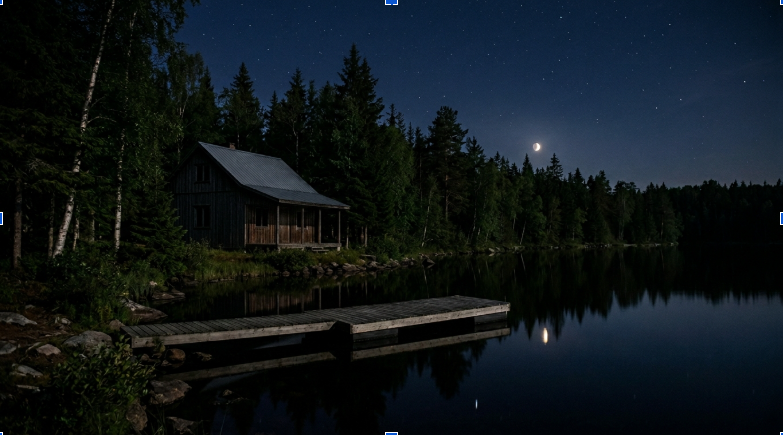
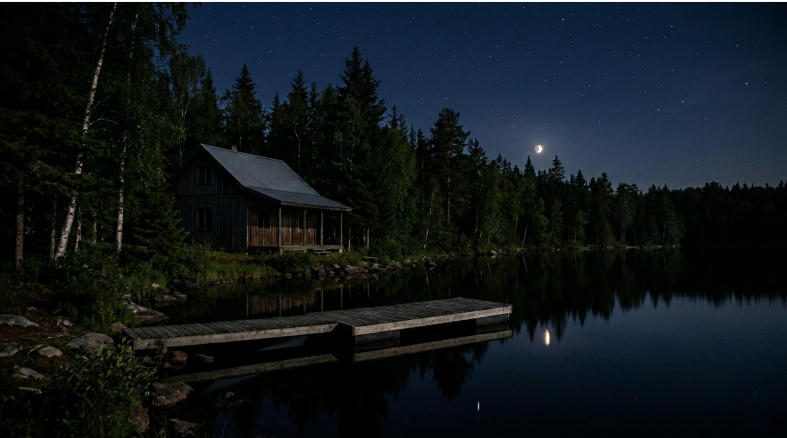
Replace storybook image 1 and remove compass graphic under image 2

diff --git a/chapter5-main/Storybook/storybook.html b/chapter5-main/Storybook/storybook.html
@@ -39,7 +39,7 @@
     <!-- Scene 2: Discovery -->
     <section class="scene" id="scene-2">
       <div class="scene-content">
-        <img src="Images/1.png?v=2" alt="Twilight Cove lake house at night" class="storybook-image stagger" onerror="this.style.display='none'"/>
+        <img src="Images/1.png?v=3" alt="Twilight Cove lake house at night" class="storybook-image stagger" onerror="this.style.display='none'"/>
         <p class="signal-text">At <strong>11:47 PM</strong>, the lights at Twilight Cove went out.</p>
         <p class="sub-text">No one inside the house called for help.</p>
         <p class="signal-text">By the time someone did, <strong><span class="red-text">Arjun Varma was already gone.</span></strong></p>
@@ -53,14 +53,6 @@
     <section class="scene" id="scene-3">
       <div class="scene-content">
         <img src="Images/2.png?v=2" alt="Investigation board" class="storybook-image stagger" onerror="this.style.display='none'"/>
-        <div class="formation-abstract stagger" aria-hidden="true">
-          <div class="point point-center" style="background: #ffffff; box-shadow: 0 0 8px #ffffff;"></div>
-          <div class="point point-n"></div>
-          <div class="point point-e"></div>
-          <div class="point point-s"></div>
-          <div class="point point-w"></div>
-          <img src="Images/compass-icon.png" alt="Crystal compass" class="dragon-icon" onerror="this.style.display='none'" style="position: absolute; bottom: 0px; left: 50%; transform: translateX(-50%); width: 50px; height: 50px; border-radius: 50%; filter: drop-shadow(0 0 8px rgba(201, 150, 59, 0.6)); opacity: 0.9; object-fit: cover;">
-        </div>
         <p class="stagger">No corrections came from inside the house. No one had seen anything before the lights died.</p>
         <p>The investigation began with four names, equally distant from innocence.</p>
         <p>Detective work doesn't wait for shock to pass. The questions started before sunrise.</p>